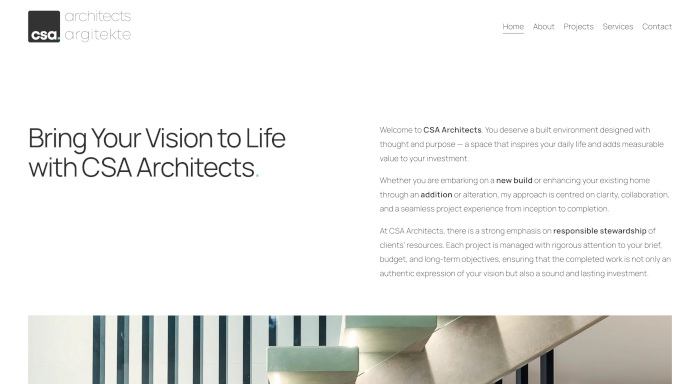
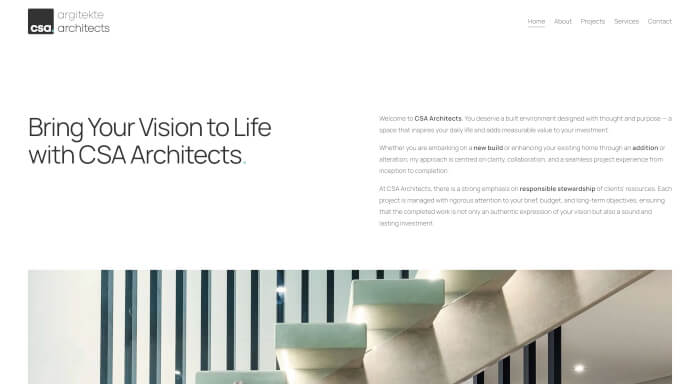
Update portfolio preview screenshots for Beauty Within and CSARC (#234)
* Update portfolio preview screenshots for Beauty Within and CSARC

Refresh the site preview images for www.beautywithin.au and www.csarc.co.za to reflect their current appearance.

* test: update visual baselines

* Chore: hash public/ into the CI Next.js build cache key

The image update in this PR exposed a stale-cache bug: changing only
public/images left the cache key unchanged, so CI restored a prior
run's .next/cache — including Next's image-optimisation cache — and
the portfolio-grid.png visual test passed against the old screenshot
instead of the new one. Hash public/** into the key so a public-asset
change busts the cache. Recorded as D-260822f in docs/decisions.md.

* Fix: drop the Next.js build cache's restore-keys fallback

Hashing public/** into the cache key alone wasn't enough: the
restore-keys prefix fallback ignored that hash and fell straight back
to the same stale cache the key change was meant to avoid, so the
visual regression suite failed against a still-stale cached image.
Remove restore-keys so a cache miss forces a clean build instead of a
partial, potentially stale one. Updated D-260822f with the full story.

---------

diff --git a/docs/decisions.md b/docs/decisions.md
@@ -12,6 +12,17 @@ To mint one: take your decision date, look for that date already in this file, a
 
 Entries are newest first. Two branches adding a decision still collide textually at the top of the file; the resolution is to keep both, newest first, and for the same date put the later-merged one above — which is how [Project History](project-history.md) already resolves. See [D-260814d](#d-260814d--identify-decisions-by-date-rather-than-by-sequence).
 
+## D-260822f — Hash `public/**` into the CI Next.js build cache key, with no restore-keys fallback
+
+- **Status:** Accepted
+- **Decided:** 2026-08-22
+
+**The `Cache Next.js build cache` step in `ci.yml` now hashes `public/**` alongside the source globs it already covered.** A pull request that changed only `public/images/portfolio/*.jpg` produced a byte-identical cache key to the prior run, so `actions/cache` restored `.next/cache` — including Next's on-disk image-optimisation cache — untouched. That cache is keyed by request URL and quality, not by the source file's content, and `next.config.js` sets `images.minimumCacheTTL` to a year, so the restored entry was still "fresh" by Next's own reckoning. The browser regression suite's `portfolio-grid.png` comparison rendered against that stale optimised image and passed against the old baseline, silently proving nothing about the new screenshots. A manually run `yarn test:e2e --update-snapshots` (no cache step) built clean and correctly found the diff.
+
+**Hashing `public/**` into the key alone looked like the complete fix and was not.** It correctly changed the primary key on the next push, but the pre-existing `restore-keys: ${{ runner.os }}-nextjs-${{ hashFiles('yarn.lock') }}-` fallback matches by prefix and ignores the second hash entirely. On the primary-key miss it fell straight back to the same stale cache entry the primary key was just changed to avoid, and the visual test failed against genuinely different rendered content — proof the fallback, not the key, was the remaining hole. `restore-keys` is removed outright rather than narrowed: a partial match is exactly the failure mode here, so only an exact hit or a clean build are safe outcomes for a cache that can hold a content-insensitive image cache.
+
+**This is a CI-only defect, not a production one.** Vercel builds every deployment from scratch and does not carry a prior deployment's `.next/cache` forward, so `minimumCacheTTL` cannot serve stale bytes across deploys the way it did across CI runs restoring a shared cache. The fix is scoped to `ci.yml` alone.
+
 ## D-260822e — Colocate SEO copy with its page, and give images their own alt text
 
 - **Status:** Accepted
